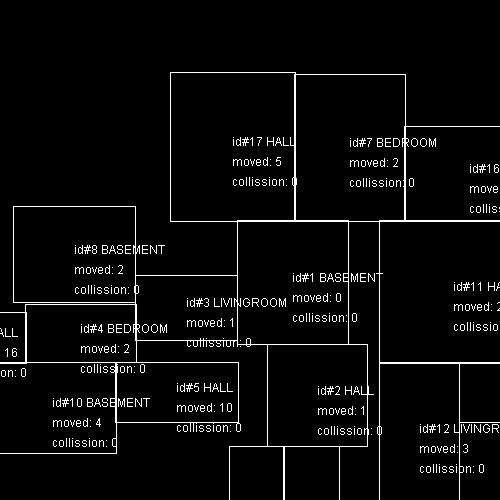
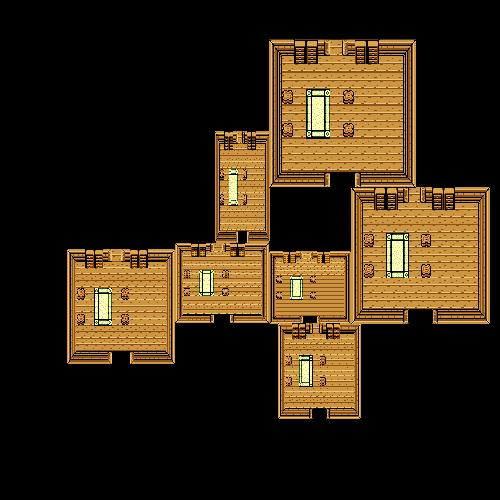
better algo to push aside rooms-2

diff --git a/src/edu/drexel/cs680/proj3/util/ImageUtil.java b/src/edu/drexel/cs680/proj3/util/ImageUtil.java
@@ -25,14 +25,14 @@ public class ImageUtil {
 				BufferedImage.TYPE_INT_RGB);
 		
 		for (Room room : mansion.rooms) {
-			Shape rectangle = new Rectangle(room.getLeftEdge(), room.getTopEdge(), room.width, room.height);
-			mansionImage.createGraphics().draw(rectangle);
-			mansionImage.createGraphics().drawString("id#"+room.id+" "+ room.name, room.center_x, room.center_y);
-			mansionImage.createGraphics().drawString("moved: "+room.moveCounter, room.center_x, room.center_y+20);
-			mansionImage.createGraphics().drawString("collission: "+RoomUtils.noOfCollisions(mansion.rooms, room), room.center_x, room.center_y+40);
+//			Shape rectangle = new Rectangle(room.getLeftEdge(), room.getTopEdge(), room.width, room.height);
+//			mansionImage.createGraphics().draw(rectangle);
+//			mansionImage.createGraphics().drawString("id#"+room.id+" "+ room.name, room.center_x, room.center_y);
+//			mansionImage.createGraphics().drawString("moved: "+room.moveCounter, room.center_x, room.center_y+20);
+//			mansionImage.createGraphics().drawString("collission: "+RoomUtils.noOfCollisions(mansion.rooms, room), room.center_x, room.center_y+40);
 			
-//			boolean image1Drawn = mansionImage.createGraphics().drawImage(roomImage, room.getLeftEdge(), room.getTopEdge(), room.width, room.height, null);
-//			if(!image1Drawn) System.out.println("Problems drawing room " + room.name); 
+			boolean image1Drawn = mansionImage.createGraphics().drawImage(roomImage, room.getLeftEdge(), room.getTopEdge(), room.width, room.height, null);
+			if(!image1Drawn) System.out.println("Problems drawing room " + room.name); 
 		}
 		
 		  File mansionFile = new File(String.format("%s\\graphics\\mansion\\output\\mansion.jpg", FOLDER));

diff --git a/src/edu/drexel/cs680/proj3/modules/Room.java b/src/edu/drexel/cs680/proj3/modules/Room.java
@@ -21,15 +21,19 @@ public class Room {
 	}
 	
 	public boolean collides(Room other) {
+		return collision(this, other) || collision(other, this);
+	}
+	
+	private boolean collision(Room a, Room b) {
 		boolean collision_x = false, collision_y = false;
 		
-		collision_x = (other.getLeftEdge() >= getLeftEdge() && other.getLeftEdge() < getRightEdge());
-		collision_x = collision_x || (other.getRightEdge() > getLeftEdge() && other.getRightEdge() <= getRightEdge());
+		collision_x = (b.getLeftEdge() >= a.getLeftEdge() && b.getLeftEdge() < a.getRightEdge());
+		collision_x = collision_x || (b.getRightEdge() > a.getLeftEdge() && b.getRightEdge() <= a.getRightEdge());
 		
-		collision_y = (other.getTopEdge() >= getTopEdge() && other.getTopEdge() < getBottomEdge());
-		collision_y = collision_y || (other.getBottomEdge() > getTopEdge() && other.getBottomEdge() <= getBottomEdge());
-		
-		return collision_x && collision_y;
+		collision_y = (b.getTopEdge() >= a.getTopEdge() && b.getTopEdge() < a.getBottomEdge());
+		collision_y = collision_y || (b.getBottomEdge() > a.getTopEdge() && b.getBottomEdge() <= a.getBottomEdge());
+		boolean collision = collision_x && collision_y;
+		return collision;
 	}
 
 	public int getLeftEdge() {

diff --git a/src/edu/drexel/cs680/proj3/modules/Mansion.java b/src/edu/drexel/cs680/proj3/modules/Mansion.java
@@ -8,7 +8,7 @@ import edu.drexel.cs680.proj3.util.ImageUtil;
 
 public class Mansion {
 
-	public static final int MAX_ROOMS = 20;
+	public static final int MAX_ROOMS = 7;
 	public static final int WIDTH = 500;
 	public static final int HEIGHT = 500;
 	
@@ -18,7 +18,7 @@ public class Mansion {
 	public Mansion() {
 		rooms = RoomUtils.getRandomRooms(MAX_ROOMS, WIDTH, HEIGHT);
 		rooms = RoomUtils.moveRoomsApart(rooms);
-		rooms = RoomUtils.filterCollidingRooms(rooms);
+//		rooms = RoomUtils.filterCollidingRooms(rooms);
 //		RoomUtils.moveRoomsClose(rooms);
 		
 //		setMansionWidthHeight();
